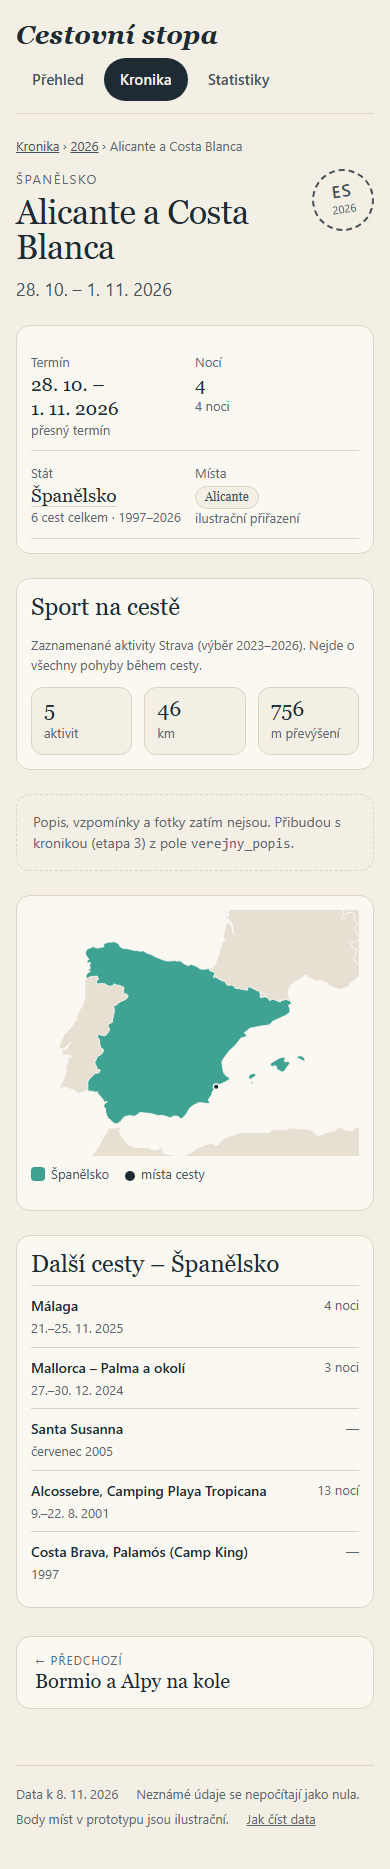
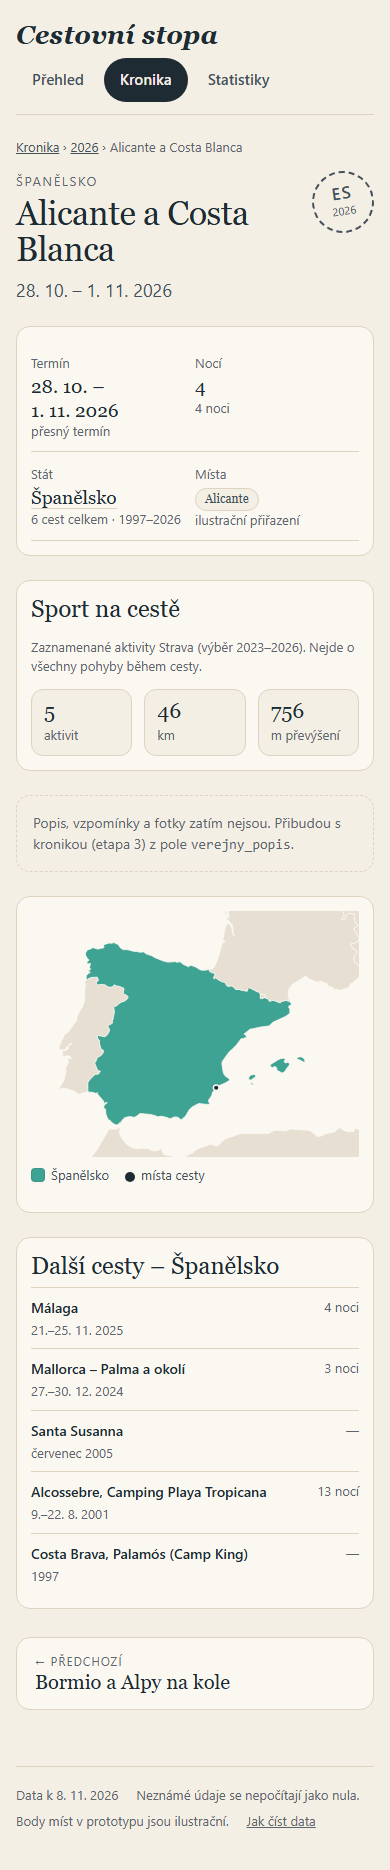
Přidat popis vzhledu system.md a opravit kontrast v prototypu v2
docs/design/system.md popisuje vzhled Atlas pro implementaci: barevné
tokeny s ověřeným kontrastem, typografii, rozvržení a zlomy, navigaci
a URL parametry, komponenty, pravidla zobrazení dat, přístupnost,
co je jen v prototypu a otevřená rozhodnutí.

Opravy v prototypu v2: odkazy v nové barvě --cz-text (#00766A, 4,8:1),
popisky prázdných let v pohledu Celé roky v --muted, ovládací prvky
na mobilu vysoké aspoň 44 px. Obnovené náhledy, README odkazuje na
system.md.

diff --git a/docs/design/v2/assets/atlas.css b/docs/design/v2/assets/atlas.css
@@ -1,7 +1,7 @@
 /* Cestovní stopa – prototyp v2: sdílený vzhled „Atlas“. */
 :root {
   --paper: #F4EFE4; --card: #FBF8F2; --ink: #1E2B33; --ink-2: #44515A; --muted: #5B666E; --line: #DCD3C1; --line-2: #E8E1D3;
-  --land: #E6DFD2; --cz: #00897B; --abroad: #C0682A;
+  --land: #E6DFD2; --cz: #00897B; --cz-text: #00766A; --abroad: #C0682A;
   --q1: #A8D5CB; --q2: #79BFB2; --q3: #3FA393; --q4: #00897B; --q5: #0A5A51;
   --serif: Georgia, "Palatino Linotype", "Book Antiqua", serif;
   --sans: "Segoe UI", system-ui, -apple-system, sans-serif;
@@ -49,7 +49,7 @@ h2.sec { font: 400 28px/1.2 var(--serif); margin: 0 0 6px; }
 select, input[type="search"] { font: 14px var(--sans); color: var(--ink); background: var(--card); border: 1px solid var(--line); border-radius: 999px; padding: 7px 14px; min-height: 38px; }
 .chip { display: inline-block; font-size: 12px; padding: 3px 9px; border-radius: 999px; background: var(--paper); border: 1px solid var(--line); color: var(--ink-2); white-space: nowrap; }
 .code { font: 600 11px var(--sans); letter-spacing: .08em; border: 1.5px solid var(--ink-2); color: var(--ink-2); border-radius: 5px; padding: 1px 5px; }
-.link { color: var(--cz); font-weight: 600; text-decoration: none; }
+.link { color: var(--cz-text); font-weight: 600; text-decoration: none; }
 .link:hover { text-decoration: underline; }
 
 /* legenda */
@@ -88,4 +88,6 @@ select, input[type="search"] { font: 14px var(--sans); color: var(--ink); backgr
   .page-head { padding-top: 20px; }
   .page-head h1 { font-size: 36px; }
   .panel { padding: 14px; border-radius: 14px; }
+  .seg button, .top nav a { min-height: 44px; }
+  select, input[type="search"] { min-height: 44px; }
 }

diff --git a/docs/design/v2/statistiky.html b/docs/design/v2/statistiky.html
@@ -27,7 +27,7 @@
 .yr-stripe { fill: rgba(30,43,51,.035); }
 .yr-month { stroke: #E4DCCB; }
 .yr-label { fill: var(--ink-2); font: 13px var(--serif); }
-.yr-label.is-empty { fill: #9AA2A8; }
+.yr-label.is-empty { fill: var(--muted); font-style: italic; }
 .yr-bar, .yr-band, .yr-dot { cursor: pointer; }
 .yr-bar:hover, .yr-dot:hover { stroke: var(--ink); stroke-width: 1.5; }
 .yr-band { fill-opacity: .28; stroke-dasharray: 3 2; stroke-width: 1; }

diff --git a/docs/design/system.md b/docs/design/system.md
@@ -1,0 +1,259 @@
+# Vzhled a komponenty – Cestovní stopa
+
+**Stav:** 8. 11. 2026 · popis vybraného vzhledu „Atlas“ podle prototypu v2.
+**Zdroj pravdy:** `docs/design/v2/` – `assets/atlas.css` (tokeny a základní komponenty), `assets/app.js` (sdílené komponenty), stránky `index.html`, `kronika.html`, `statistiky.html`, `cesta.html`. Výpočty a formátování: `docs/design/assets/viz.js`.
+**Účel:** podklad pro implementaci MVP. Když se dokument a prototyp rozejdou, platí prototyp a dokument se opraví.
+
+---
+
+## 1. Principy
+
+1. **Atlas, ne dashboard.** Klidný „tištěný“ vzhled: teplý papír, serifové nadpisy, mapa jako hlavní vizuál. Hustota informací je střední, nikoli interní nástroj.
+2. **Poctivost dat je vidět.** Neznámá hodnota se nikdy nezobrazí jako 0. Každé číslo z neúplných dat má pokrytí („známo u 79 z 96 cest“) a přesnost termínu je vždy čitelná.
+3. **Vše se počítá z jednotlivých cest.** V HTML ani v kódu nejsou napsané žádné souhrny natvrdo.
+4. **Mobil je plnohodnotný.** Každá stránka funguje na šířce 390 px bez vodorovného posouvání celé stránky. Posouvat se smí jen uvnitř boxu, například u heatmapy.
+5. **Bez externích závislostí za běhu.** Systémová písma, žádné CDN, mapa bez dlaždic třetích stran, žádné požadavky na cizí servery.
+6. **Česky, s diakritikou**, s českými tvary čísel a dat.
+
+---
+
+## 2. Barvy
+
+Všechny barvy jsou CSS proměnné v `:root`. Kód používá role, nikdy přímé hodnoty.
+
+### 2.1 Plochy, text a linky
+
+| Token | Hodnota | Použití | Kontrast na papír / kartu |
+|---|---|---|---|
+| `--paper` | `#F4EFE4` | pozadí stránky | – |
+| `--card` | `#FBF8F2` | panely, karty, povrch grafů | – |
+| `--ink` | `#1E2B33` | hlavní text, aktivní stav, tooltip | 12,6 / 13,7 |
+| `--ink-2` | `#44515A` | sekundární text, ikony | 7,1 / 7,7 |
+| `--muted` | `#5B666E` | popisky, poznámky, osy | 5,1 / 5,6 |
+| `--line` | `#DCD3C1` | okraje panelů, oddělovače | – |
+| `--line-2` | `#E8E1D3` | jemné obrysy (prázdné buňky heatmapy) | – |
+| `--land` | `#E6DFD2` | nenavštívené státy na mapě | – |
+
+### 2.2 Datové barvy
+
+| Token | Hodnota | Význam |
+|---|---|---|
+| `--cz` | `#00897B` | Česko (tyrkys) |
+| `--abroad` | `#C0682A` | zahraničí (okr) |
+| `--cz-text` | `#00766A` | text odkazů v tyrkysové (4,8 / 5,2 : 1) |
+| `--q1` … `--q5` | `#A8D5CB`, `#79BFB2`, `#3FA393`, `#00897B`, `#0A5A51` | sekvenční škála (počet cest), světlá → tmavá |
+
+- **Pár Česko / zahraničí** prošel validátorem palety na povrchu `#FBF8F2`: rozlišitelnost pro barvoslepé ΔE 10,3, při běžném vidění ΔE 21,8, kontrast obou barev vůči povrchu je aspoň 3 : 1.
+- **Text nikdy ve `--cz` ani `--abroad`.** Pro odkazy je `--cz-text`. Datové barvy jsou jen pro značky (pruhy, plochy, body). Výjimkou je velký text nad 24 px, například zvýrazněné číslo v hlavním nadpisu.
+- **Sekvenční škála:** choropleth státu má třídy 1 (`q1`), 2–5 (`q2`), 6–10 (`q3`), 11–20 (`q4`) a 21+ (`q5`). Heatmapa rok × měsíc používá 1, 2, 3 a 4+ jako `q1`, `q2`, `q3` a `q5`. Čísla v buňkách jsou na `q1`–`q3` v barvě `#0B2A26` (5,0–9,5 : 1) a na `q5` bílá (8,1 : 1).
+- **Upozornění (kontrola dat):** pozadí `#FBF1E6`, okraj `#E8C9A9`, text `#6B3A10` (8,4 : 1). Používá se jen v prototypu, viz kapitola 10.
+- **Tmavý režim** zatím není. Až přibude, dostane vlastní stupně stejných rolí ověřené proti tmavému povrchu a zapne se automaticky přes `prefers-color-scheme`. Nebude to jen převrácení barev.
+
+---
+
+## 3. Typografie
+
+| Role | Písmo |
+|---|---|
+| `--serif` | `Georgia, "Palatino Linotype", "Book Antiqua", serif` – nadpisy, velká čísla, roky |
+| `--sans` | `"Segoe UI", system-ui, -apple-system, sans-serif` – text, ovládání, popisky, tabulky |
+
+| Prvek | Velikost (desktop / mobil) | Písmo |
+|---|---|---|
+| Hlavní nadpis Přehledu („15 států, 96 cest“) | 52 / 38 px | serif 400 |
+| Nadpis detailu cesty | 50 / 34 px | serif 400 |
+| Nadpis stránky (`.page-head h1`) | 46 / 36 px | serif 400 |
+| Rok v Kronice | 44 / 32 px | serif 400 |
+| Nadpis sekce (`h2.sec`) | 28 px, v panelu 24 px | serif 400 |
+| Číslo ve faktech | 26 px (detail 22 / 19) | serif 400 |
+| Název na kartě cesty | 21 px | serif 400 |
+| Základní text | 15 px / 1,5 | sans |
+| Poznámka, popisek, sekundární údaj | 13 px | sans |
+| Nadtitulek (`.kicker`) | 13 px, verzálky, prostrkání 0,12 em | sans |
+| Popisky os grafů | 11–12 px | sans, `tabular-nums` |
+
+- Georgia má „starodávné“ číslice (s dotahy pod linku). Hodí se k velkým číslům a rokům. V tabulkách, na osách a všude, kde se čísla zarovnávají pod sebe, se používá sans s `font-variant-numeric: tabular-nums`.
+- Písma jsou systémová. Na Androidu Georgia není a nahradí ji výchozí serif. Rozhodnutí, zda vlastní serif hostovat lokálně, je v kapitole 11.
+
+---
+
+## 4. Rozvržení
+
+- **Kontejner:** maximálně 1320 px, boční okraje 28 px, na mobilu 16 px.
+- **Mezery:** 24–28 px mezi bloky (`.stack` 24 px), vnitřní odsazení panelu 20 px (mobil 14 px).
+- **Rádiusy:** panel 18 px (mobil 14), karta 16, kulaté ovládání (přepínač, chip, vyhledávání) 999, kód státu 5, konce pruhů 2–6 px.
+- **Okraje:** 1 px `--line`. Stín má jen tooltip.
+
+**Zlomy:**
+
+| Šířka | Změna |
+|---|---|
+| ≤ 1100 px | dvousloupcové sekce (Přehled, Statistiky) se skládají pod sebe, karty cest ve 2 sloupcích |
+| ≤ 900 px | detail cesty v jednom sloupci |
+| ≤ 820 px | Kronika: lišta let se přesouvá nahoru jako vodorovný pás |
+| ≤ 760 px | hlavička pod sebe, menší panely, ovládací prvky vysoké aspoň 44 px |
+| ≤ 640 px | karty posledních cest jako vodorovný posuvný pás, menší nadpisy |
+
+---
+
+## 5. Stránky a navigace
+
+Hlavní navigace má 3 položky: **Přehled · Kronika · Statistiky**. Detail cesty patří pod Kroniku, takže v menu je aktivní Kronika. Sport (etapa 2) a Mapa míst (etapa 1b) přibudou jako další položky.
+
+| Stránka | Soubor | Parametry a kotvy |
+|---|---|---|
+| Přehled | `index.html` | `?stat=HR` vybraný stát |
+| Kronika | `kronika.html` | `?stat=IT` filtr státu · `#y2023` rok · `#yunk` cesty bez roku |
+| Statistiky | `statistiky.html` | `?pohled=mesice` nebo `?pohled=roky` · `#kdy` · `#staty` · `#stat-HR` (otevře stát) · `#metodika` |
+| Detail cesty | `cesta.html?id=c038` | `id` = stabilní ID cesty |
+
+- Výběr státu a pohledu se zapisuje do URL (`history.replaceState`), takže odkaz jde sdílet.
+- Na GitHub Pages fungují samostatné HTML stránky s parametry bez potíží s chybou 404. ID v adrese musí být stabilní ID ze zdroje (viz revize, Z1), ne pořadí ani název souboru.
+
+---
+
+## 6. Komponenty
+
+U každé komponenty je uvedeno, kde ji v prototypu najdete.
+
+**Kostra**
+
+- **Hlavička** (`APP.shell`): logotyp „Cestovní stopa“ serifovou kurzívou s podtitulkem „osobní atlas cest“ (na mobilu skrytý) a navigace jako kulatá tlačítka. Aktivní položka je tmavá (`aria-current="page"`).
+- **Patička** (`APP.shell`): „Data k 8. 11. 2026“, „Neznámé údaje se nepočítají jako nula.“ a odkaz „Jak číst data“.
+- **Záhlaví stránky** (`.page-head`): nadtitulek (rozsah let), H1, úvodní věta spočítaná z dat, volitelně legenda vpravo.
+- **Panel** (`.panel`): karta na `--card` s okrajem `--line`. Záhlaví panelu (`.ph`) má nadpis a ovládání nebo legendu.
+
+**Ovládání**
+
+- **Přepínač** (`.seg`): skupina `<button aria-pressed>` v kulatém rámečku, aktivní je tmavý. Používá se pro Státy / Místa, Měsíce / Celé roky a Vše / Česko / Zahraničí.
+- **Filtry** (`.filters`): přepínač rozsahu, výběr státu (`<select>` s počty) a hledání (`<input type="search">`). Počet výsledků je napsaný vpravo („Zobrazeno 11 cest z 96“, `aria-live`).
+- **Drobné prvky:** chip (`.chip`) pro noci, km a přesnost; kód státu (`.code`) jako orámované ISO; odkaz (`.link`) tučně v `--cz-text`; legenda (`.legend`) se vzorky ploch, pruhů, pásů, teček a kroužků.
+
+**Mapa a státy**
+
+- **Mapa států** (`VZ.renderMap`): SVG ze statických hranic. Navštívené státy jsou zbarvené podle počtu cest, nenavštívené mají `--land`. Najetí nebo fokus ukáže tooltip a obrys v `--ink`, vybraný stát má obrys 2,2 px. Klik nebo Enter vybere stát.
+- **Karta státu** (Přehled): název, kód, „11 cest · 1996–2026 · 82 nocí (známo u 9 z 11)“, posuvný seznam cest s odkazy na detail a odkazy „V kronice“ a „Ve statistikách“.
+- **Seznam států** (`APP.statesList`): `<details>` pro každý stát. Řádek má kód, název, pruh (Česko tyrkys, ostatní okr), počet a podřádek s nocemi a pokrytím a rozsahem let. Po rozbalení se ukážou cesty a odkazy „Na mapě“ a „V kronice“.
+
+**Cesty**
+
+- **Karta cesty** (Přehled, Poslední cesty): stát verzálkami, název serifem, termín, chipy (noci, km aktivit) a „razítko“ s kódem státu (čárkovaný kruh pootočený o −8°). Celá karta je odkaz.
+- **Řádek cesty v Kronice** (`.trip`): měsíc, pruh ve stopě o pevné šířce 13 nocí × jednotka (15 px, mobil 9 px), název, metadata a případně odznak „nová země“.
+  - Pruh: Česko tyrkys, zahraničí okr, cesta se známým jen měsícem s průhledností 55 %, neznámá délka jako čárkovaný obrys.
+- **Rok v Kronice** (`.year`): rok serifem, souhrn („9 cest · 5 do zahraničí, 38 nocí“) a seznam cest. Prázdný rok je zúžený řádek „bez záznamu v archivu“ (jen bez filtru). Cesty bez roku mají vlastní skupinu „?“.
+- **Lišta let** (Kronika): na desktopu svislý seznam let s mini pruhy Česko / zahraničí a zvýrazněným aktuálním rokem, na mobilu vodorovný pás tlačítek.
+- **Odznak „nová země“** (`.new`): obrysový štítek s hvězdou u první datované cesty do státu.
+
+**Statistiky**
+
+- **Fakta** (`.facts`): mřížka 2 × 2 s popiskem, serifovou hodnotou a drobným podtextem (pokrytí, přesnost).
+- **Heatmapa rok × měsíc** (`APP.heatmap`): tabulka s pevnými sloupci. Řádky jsou roky od nejnovějšího, sloupce měsíce, za nimi oddělený sloupec „?“ (měsíc neznámý) a nakonec řádek „rok ?“. Buňky jsou vysoké 20 px s mezerou 3 px, prázdné mají jen obrys `--line-2`. Na úzkém displeji se tabulka posouvá uvnitř boxu (min. 520 px).
+- **Celé roky** (`APP.yearRows`): každý rok jeden řádek leden–prosinec ve stopě úměrné dnům roku, se střídavými pruhy řádků a svislými čarami měsíců.
+  - Přesný termín je plný pruh 9 px od začátku do konce cesty (min. 3 px).
+  - Známý jen měsíc je čárkovaný pás s 28% výplní přes celý měsíc.
+  - Známý jen rok je tečka (r = 4) ve sloupci „?“, nejvýš 3 vedle sebe.
+  - Překrývající se položky jdou pod sebe do dalších řad. Klik vede na detail cesty.
+- **Délka pobytu** (`APP.lengthHist`): svislé sloupce 1 / 2 / 3–4 / 5–7 / 8–10 / 11+ a šrafovaný sloupec „neznámá“ s hodnotou nad sloupcem.
+- **Rekordy** (`APP.records`): mřížka 2 × 3 kartiček s velkým číslem, popiskem a podtextem. Kartička s konkrétní cestou je odkaz.
+
+**Detail cesty**
+
+- **Hlavička:** drobečková navigace „Kronika › rok › název“, nadtitulek se státem, H1, termín, chip přesnosti (když termín není přesný) a razítko s kódem a rokem.
+- **Výřez mapy** (`APP.cropFor`): výřez kolem státu a míst v poměru 4 : 3, minimálně 240 × 180 jednotek. Vybraný stát je ve `--q3`, místa jsou tečky.
+- **Sport na cestě:** tři hodnoty (aktivit, km, m převýšení) a věta, že jde o výběr Strava 2023–2026.
+- **Další cesty do státu:** nejvýš 8 a odkaz „Všech N v kronice“.
+- **Prázdný stav** (`.empty`): čárkovaný rámeček „Popis, vzpomínky a fotky zatím nejsou.“
+- **Stránkování** (`.pager`): předchozí / další cesta. Datované cesty jdou chronologicky, cesty bez roku jen mezi sebou.
+
+**Tooltip** (`.vz-tip`): tmavý (`--ink`) s papírovým textem, max. 280 px, u kurzoru a při fokusu u prvku. Nesmí nést informaci, která není jinde dostupná.
+
+---
+
+## 7. Grafy a mapa
+
+- **Jeden graf = jedna osa.** Žádné dvě různé škály v jednom grafu.
+- **Značky:** sloupce se zaobleným horním koncem (4 px) a rovnou základnou. Mezi skládanými segmenty je 2px mezera v barvě povrchu. Body mají průměr aspoň 8 px a obrys v barvě povrchu, pokud se překrývají.
+- **Legenda** je vždy, když jsou v grafu aspoň dvě řady nebo třídy. Totožnost se nikdy nepozná jen podle barvy: pomáhají popisky, tooltip a seznam.
+- **Osy a mřížka** jsou nevýrazné (`#E4DCCB`, základna `#BFB4A0`), popisky v `--muted` 11 px.
+- **Tooltip** se ukazuje při najetí i při fokusu. Plocha pro najetí je větší než samotná značka (celý sloupec roku).
+- **Alternativa:** ke každé vizualizaci existuje textová nebo tabulková cesta k údajům. Mapa má kartu a seznam států, Celé roky mají Kroniku a heatmapa má tooltip a Kroniku.
+- **Mapa:**
+  - Hranice z Natural Earth 1:50m (public domain), předpočítané do statického souboru.
+  - Lambertova azimutální stejnoplochá projekce se středem 10° v. d. a 49° s. š., rámec 1000 × 823.
+  - Mapa nemá podkladové dlaždice.
+  - Tahy čar mají `vector-effect: non-scaling-stroke`.
+  - Velikost bodu místa: r = 4 + 2,2 · √(počet cest). Oblast se kreslí jako čárkovaný kroužek s 18% výplní.
+  - Do státu se počítá jen hlavní země cesty. Průjezd se nezobrazuje.
+
+---
+
+## 8. Zobrazení dat
+
+| Situace | Zobrazení |
+|---|---|
+| Neznámý počet nocí | v tabulce „—“, v textu „nocí neznámo“ nebo „noci neznámé“, nikdy 0 |
+| Součet z neúplných dat | „349 nocí · známo u 79 z 96 cest“ |
+| Přesný termín | „26.–30. 5. 2022“, „27. 7. – 3. 8. 2026“, přes rok „27. 12. 2024 – 2. 1. 2025“ |
+| Známý měsíc | „červenec 2005“ + chip „známý měsíc“ |
+| Známý rok | „2001“ + chip „jen rok“ |
+| Neznámý rok | „rok neznámý“, ve skupinách „?“ |
+| Cesty bez roku | počítají se do států, ne do let a měsíců. Grafy po letech je mají zvlášť a označené. |
+| „Nová země“ | první **datovaná** cesta do státu („první známá cesta“). Stát jen s nedatovanou cestou (Německo) má „rok první cesty neznámý“. |
+
+- **Tvary slov:** 1 cesta / 2–4 cesty / 5+ cest, 1 noc / 2–4 noci / 5+ nocí. U desetinných čísel tvar „noci“ (4,4 noci).
+- **Čísla** podle `cs-CZ`: mezera mezi tisíci, desetinná čárka. Před procenty a jednotkami je pevná mezera („49 %“, „46 km“).
+- **Mezi číslem a měsícem** v datu je pevná mezera, aby se datum nezalomilo.
+- **Název cesty:** když začíná názvem hlavní země („Itálie – Řím“), na kartách a v seznamech se předpona vynechá („Řím“). Názvy jako „Pasohlávky – Apalucha“ zůstávají celé.
+
+---
+
+## 9. Přístupnost
+
+- **Kontrast:** běžný text aspoň 4,5 : 1, velký text a grafické značky aspoň 3 : 1. Hodnoty jsou v kapitole 2.
+- Při revizi jsem opravil odkazy (`--cz` → `--cz-text`), popisky prázdných let v Celých rocích (`#9AA2A8` 2,3 : 1 → `--muted`) a výšku ovládacích prvků na mobilu (aspoň 44 px).
+- **Ovládání klávesnicí:**
+  - Navštívené státy na mapě mají `tabindex="0"`, `role="button"` a `aria-label` („Chorvatsko, 11 cest“) a vybírají se Enterem nebo mezerníkem.
+  - Přepínače jsou `<button aria-pressed>`, státy `<details>/<summary>`, cesty běžné odkazy.
+- **Fokus** se nesmí skrývat. Výchozí obrys prohlížeče zůstává, u státu na mapě je vlastní.
+- **SVG** mají `role="img"` nebo `role="group"` s `aria-label`, dekorace mají `aria-hidden="true"`.
+- **Známé mezery** (v implementaci řešit, nebo přijmout s alternativou):
+  - Pruhy v pohledu Celé roky nejsou dosažitelné klávesnicí. Alternativou je Kronika.
+  - Nejsvětlejší třída choroplethu (`q1`, 1 cesta) se od nenavštíveného státu liší jen málo (1,2 : 1). Alternativou je karta a seznam států, tooltip a `aria-label`.
+
+---
+
+## 10. Co je jen v prototypu
+
+- **Body míst jsou ilustrační.** Souřadnice obcí jsou z obecné znalosti, nejde o ověřený číselník (revize, Z5). Bulharsko a „Varne minde“ bod nemají.
+- **Štítek „kolo“** v `data.js` je odvozený z názvu cesty. Ve webu ho nahradí pole `zamereni` ze zdroje.
+- **Upozornění „Kontrola dat“** (překryv termínů) v detailu cesty slouží k revizi. Ve veřejné verzi se rozpor opraví ve zdroji a validátor exportu ho ohlásí jako varování.
+- **`data.js`** je jednorázově vygenerovaný z exportu. Web bude číst `cesty.json` z exportního skriptu.
+- **`viz.js` a `app.js`** jsou prototypový kód bez typů a testů.
+
+---
+
+## 11. Podklad pro implementaci
+
+**Převod do kódu**
+
+- Tokeny z kapitoly 2 převzít jako CSS proměnné se stejnými názvy. Komponenty mají používat jen role, ne přímé barvy.
+- Moduly podle odpovědností:
+
+  | Modul | Obsah |
+  |---|---|
+  | `stats` | čisté funkce výpočtu, pokryté testy nad zmrazenou fixture s kontrolními hodnotami |
+  | `format` | data, tvary slov, čísla, zkrácení názvů |
+  | `map` | mapa států a míst |
+  | `charts` | grafy po letech, měsíce, heatmapa, Celé roky, délka pobytu |
+  | `pages` | jednotlivé stránky |
+
+- Chování prototypu je specifikace: stejné výpočty, texty, prázdné stavy a URL parametry.
+
+**Otevřená rozhodnutí**
+
+| # | Rozhodnutí | Doporučení |
+|---|---|---|
+| 1 | Hostovat vlastní serif (stejný vzhled na Androidu), nebo zůstat u systémových písem | zatím systémová písma, rozhodnout podle vzhledu na telefonu |
+| 2 | Barvy tmavého režimu | odvodit z návrhu 5 a ověřit validátorem, zapínat automaticky |
+| 3 | Zobrazení míst s přesností jen „oblast“ | ponechat čárkovaný kroužek |
+| 4 | Ikona a favicon | jednoduché razítko s „CS“ v barvách Atlasu |

diff --git a/docs/design/README.md b/docs/design/README.md
@@ -19,7 +19,9 @@ Sdílený vzhled: `v2/assets/atlas.css`. Sdílené komponenty (heatmapa, celé r
 
 Ověřeno: desktop 1440 px a mobil 390 px bez přetečení do šířky a bez chyb JavaScriptu. Funkčnost filtrů, přepínačů a odkazů na detail jsem ověřil ručně v prohlížeči.
 
-Co zbývá před implementací: popis vzhledu (`system.md`), a v datech ověřený číselník míst (body jsou zatím ilustrační).
+Popis vzhledu a komponent pro implementaci: [`system.md`](system.md) (tokeny, typografie, rozvržení, navigace a URL, komponenty, pravidla zobrazení dat, přístupnost).
+
+Co zbývá před implementací: v datech ověřený číselník míst (body jsou zatím ilustrační).
 
 ## Původních 5 maket
 
